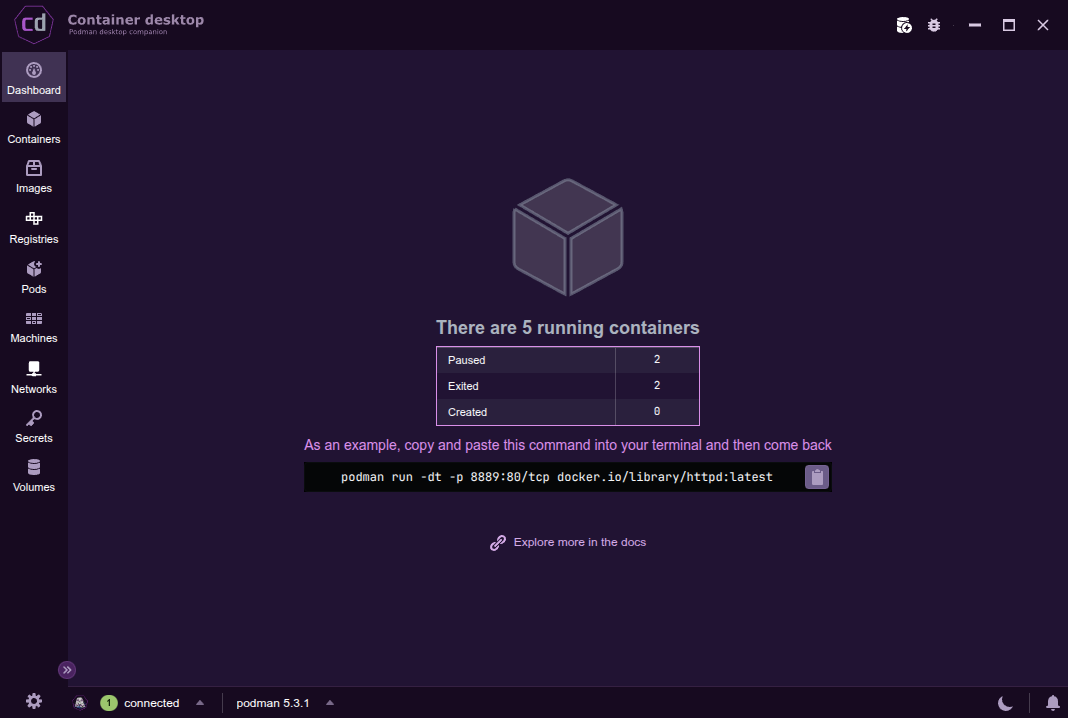
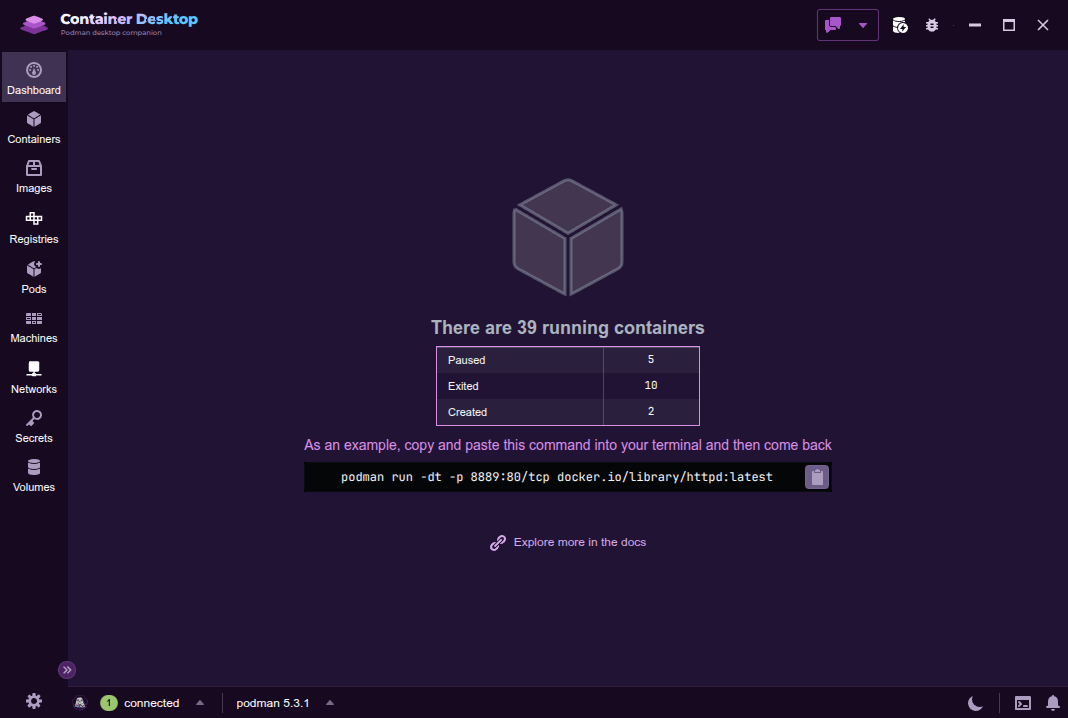
Fix recorder

diff --git a/src/__tests__/demoScenario.test.ts b/src/__tests__/demoScenario.test.ts
@@ -1,0 +1,32 @@
+import { readFileSync } from "node:fs";
+import path from "node:path";
+import { describe, expect, it } from "vitest";
+
+function collectSelectorValues(value: unknown, selectors: string[] = []): string[] {
+  if (!value || typeof value !== "object") {
+    return selectors;
+  }
+  if (Array.isArray(value)) {
+    for (const item of value) {
+      collectSelectorValues(item, selectors);
+    }
+    return selectors;
+  }
+  for (const [key, child] of Object.entries(value)) {
+    if ((key === "selector" || key === "rowSelector" || key === "waitFor") && typeof child === "string") {
+      selectors.push(child);
+    }
+    collectSelectorValues(child, selectors);
+  }
+  return selectors;
+}
+
+describe("demo scenario", () => {
+  it("does not hardcode generated mock container ids", () => {
+    const scenario = JSON.parse(readFileSync(path.resolve("support/demoScenario.json"), "utf8"));
+    const selectors = collectSelectorValues(scenario);
+
+    expect(selectors).toContain("[data-container]");
+    expect(selectors.filter((selector) => /\[data-container="[^"]+"\]/.test(selector))).toEqual([]);
+  });
+});